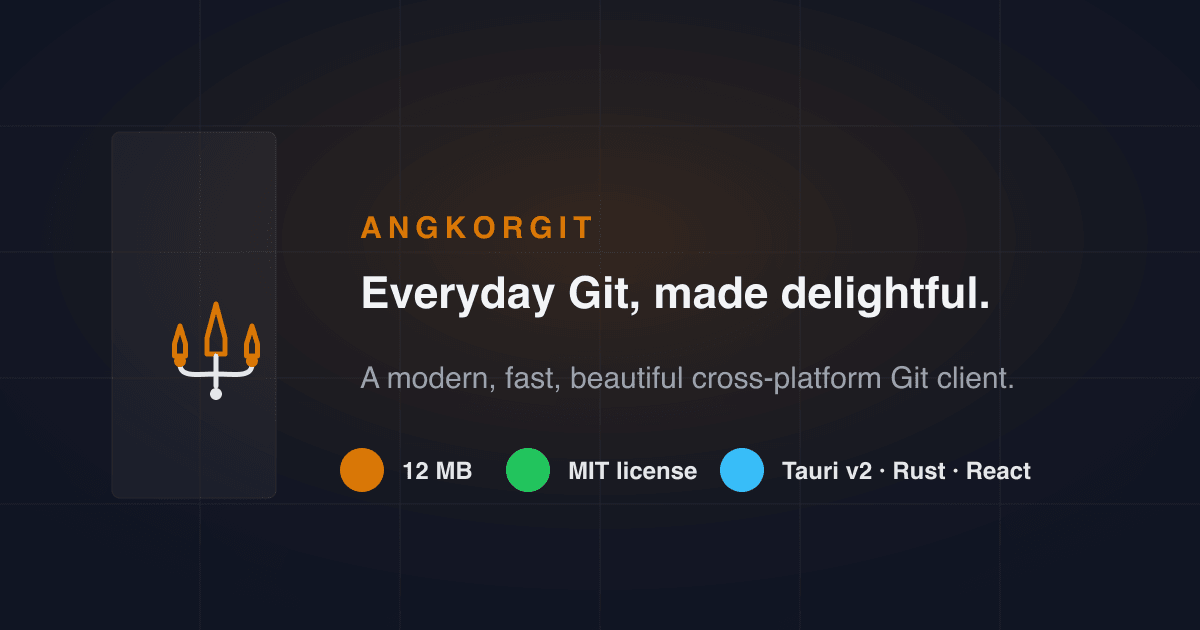
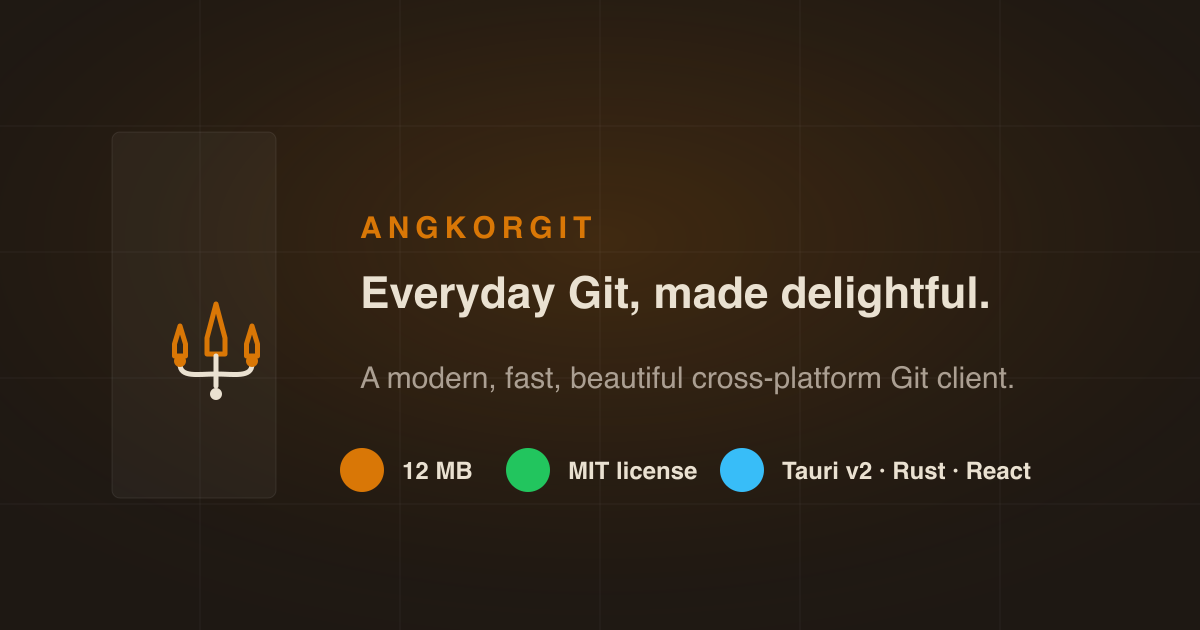
fix(website): update theme colors and image optimization - updated theme colors and image optimization settings to improve website appearance and performance

diff --git a/apps/website/src/styles/global.css b/apps/website/src/styles/global.css
@@ -3,6 +3,34 @@
 @import '@fontsource/jetbrains-mono/500.css';
 @import '../../../../packages/design-system/src/tokens.css';
 
+.dark {
+  --background: 26 26% 6.5%;
+  --surface: 26 22% 9.5%;
+  --surface-raised: 27 19% 12.5%;
+  --surface-overlay: 28 18% 14.5%;
+  --border: 30 16% 21%;
+  --border-subtle: 28 17% 15.5%;
+  --foreground: 36 28% 90%;
+  --muted-foreground: 33 13% 62%;
+  --faint-foreground: 31 9% 44%;
+  --glass: 26 22% 9.5%;
+  --shadow-soft: 0 8px 32px -12px rgb(10 6 2 / 0.6);
+}
+
+.light {
+  --background: 38 34% 93%;
+  --surface: 40 45% 97.5%;
+  --surface-raised: 39 38% 95%;
+  --surface-overlay: 42 50% 98.5%;
+  --border: 35 22% 80%;
+  --border-subtle: 37 26% 87%;
+  --foreground: 27 32% 15%;
+  --muted-foreground: 29 15% 37%;
+  --faint-foreground: 31 11% 53%;
+  --glass: 40 45% 97.5%;
+  --shadow-soft: 0 8px 32px -16px rgb(64 44 22 / 0.28);
+}
+
 @tailwind base;
 @tailwind components;
 @tailwind utilities;
